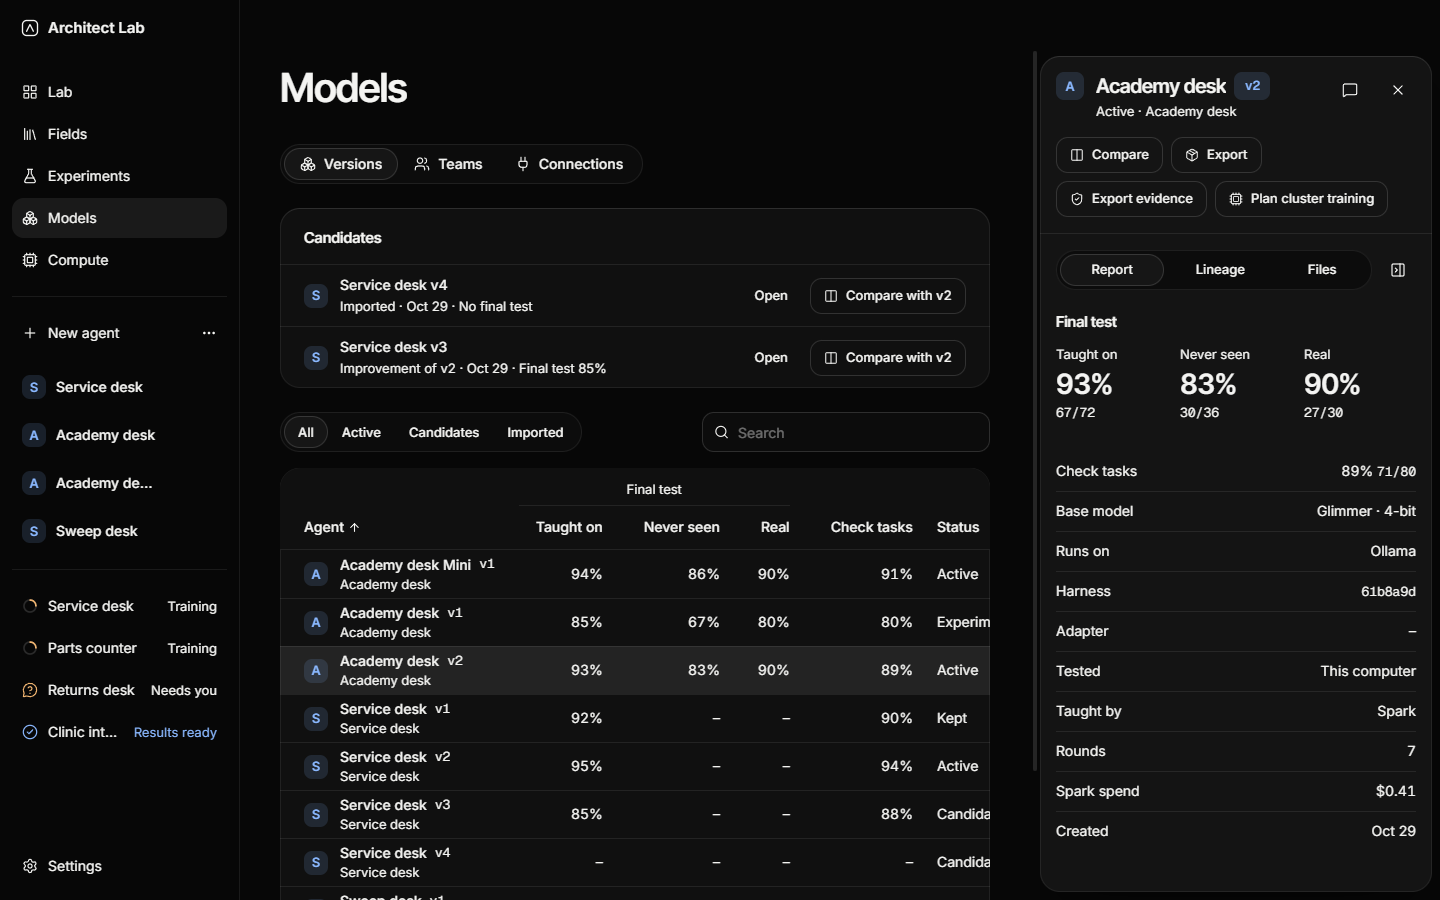
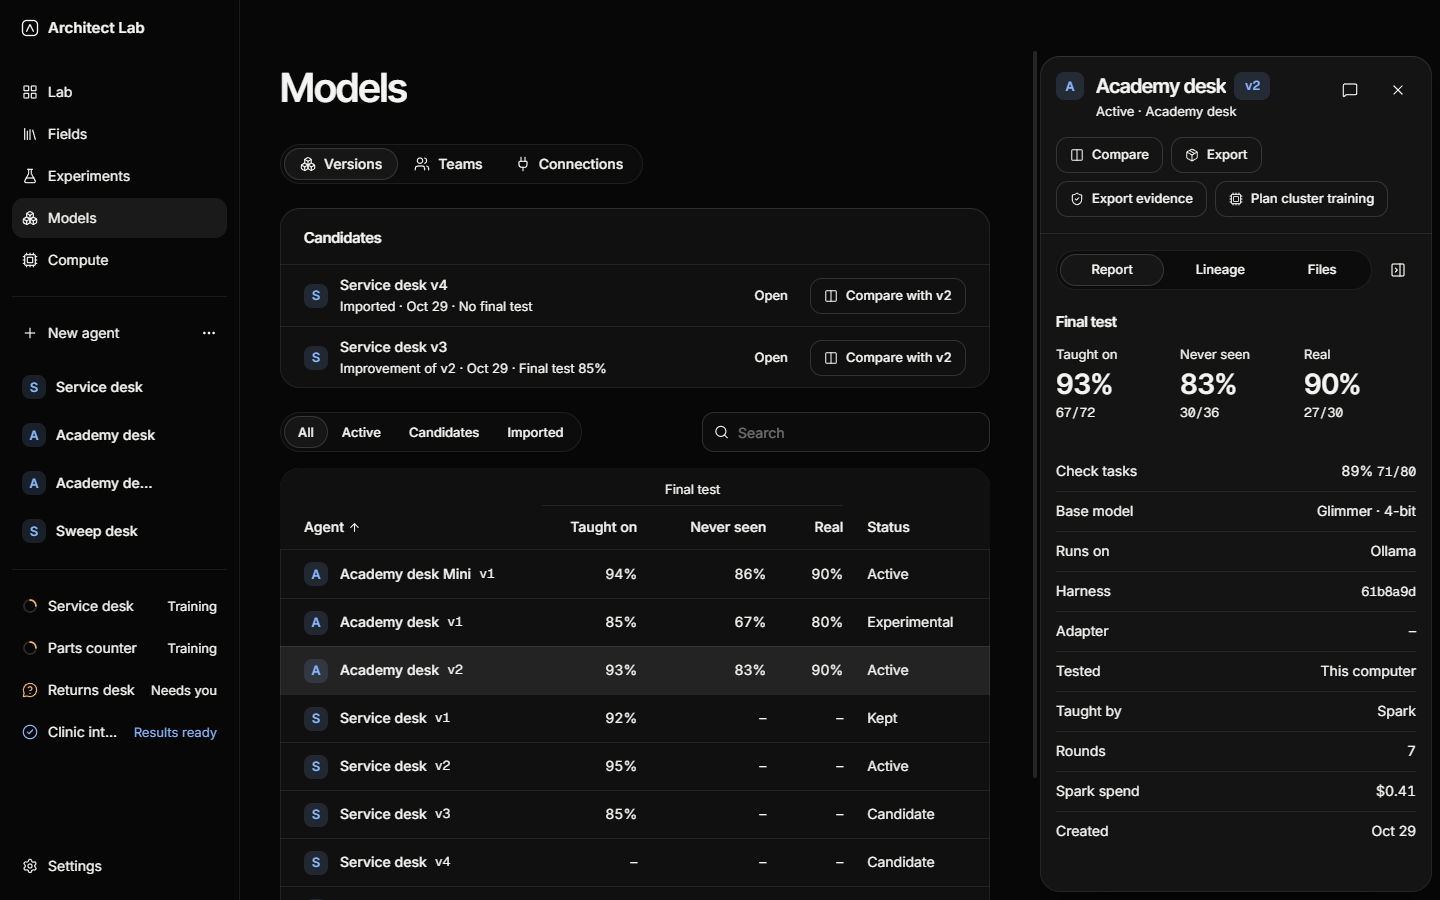
feat(desktop): keep the models table to one line a row, and its Status in view
The agent cell drops the subline that repeated its name, and the base
model is one line ("Glimmer · 4-bit") with its runtime on hover. Beside
the open panel the table leaves out Check tasks, which lead the panel, so
Status is never cut off.

diff --git a/apps/desktop/src/renderer/src/models/RegistryTable.tsx b/apps/desktop/src/renderer/src/models/RegistryTable.tsx
@@ -8,7 +8,6 @@ import { formatPercent } from '../lib/format';
 import {
   baseModelOf,
   CHECK_HINT,
-  fieldOf,
   runtimeName,
   scoresOf,
   shortHash,
@@ -54,16 +53,6 @@ const scoreColumn = (
     ),
 });
 
-/** A cell of two lines: the value, and a small line under it. */
-function TwoLines({ top, under }: { top: ReactNode; under: ReactNode }) {
-  return (
-    <span className="flex flex-col whitespace-nowrap leading-5">
-      {top}
-      <span className="text-small">{under}</span>
-    </span>
-  );
-}
-
 const NAME: DataColumn<ModelRow> = {
   key: 'name',
   header: 'Agent',
@@ -71,18 +60,13 @@ const NAME: DataColumn<ModelRow> = {
   cell: (row) => (
     <span className="flex items-center gap-3 whitespace-nowrap">
       <AgentAvatar name={row.agent.name} />
-      <TwoLines
-        top={
-          <span className="flex items-center gap-2">
-            {row.agent.name}
-            <span aria-hidden className="font-mono text-small font-normal">
-              v{row.version.version}
-            </span>
-            <span className="sr-only">version {row.version.version}</span>
-          </span>
-        }
-        under={<span className="font-normal">{fieldOf(row.version)}</span>}
-      />
+      <span className="flex items-center gap-2">
+        {row.agent.name}
+        <span aria-hidden className="font-mono text-small font-normal">
+          v{row.version.version}
+        </span>
+        <span className="sr-only">version {row.version.version}</span>
+      </span>
     </span>
   ),
 };
@@ -131,11 +115,16 @@ const COLUMNS: DataColumn<ModelRow>[] = [
     key: 'base',
     header: 'Base model',
     sortValue: (row) => baseModelOf(row.version),
+    // What it runs on shows on hover and in the panel.
     cell: (row) => (
-      <TwoLines
-        top={baseModelOf(row.version)}
-        under={runtimeName(row.version.manifest.model.runtime.compatible[0])}
-      />
+      <Tooltip
+        content={`Runs on ${runtimeName(row.version.manifest.model.runtime.compatible[0])}`}
+        side="top"
+      >
+        <span tabIndex={0} className="whitespace-nowrap">
+          {baseModelOf(row.version)}
+        </span>
+      </Tooltip>
     ),
   },
   {
@@ -176,8 +165,11 @@ function withCertificates(rows: readonly ModelRow[]): DataColumn<ModelRow>[] {
   return [...COLUMNS.slice(0, status), CERTIFIED, ...COLUMNS.slice(status)];
 }
 
-/** Beside an open panel, which shows the rest: the agent, its scores and its status. */
-const NARROW: DataColumn<ModelRow>[] = [NAME, ...SCORES, STATUS];
+/**
+ * Beside an open panel, which shows the rest: the agent, its final test and its status. The check
+ * tasks lead the panel, so the table leaves them out and its Status column stays in view.
+ */
+const NARROW: DataColumn<ModelRow>[] = [NAME, ...SCORES.slice(0, 3), STATUS];
 
 /** Every agent and version: what it runs on, how it was made, and how its final test went. */
 export function RegistryTable({

diff --git a/apps/desktop/e2e/models.spec.ts b/apps/desktop/e2e/models.spec.ts
@@ -66,8 +66,9 @@ test('lists every agent and version with its scores, and filters and searches th
   const academyDesk = row(/^Academy desk\s+version 2/);
   await expect(academyDesk).toContainText('Academy desk');
   await expect(academyDesk).toContainText('Glimmer · 4-bit');
-  // Its harness hash is behind a hover, not in the row.
+  // Its harness hash and its runtime are behind a hover, not in the row.
   await expect(academyDesk).not.toContainText('61b8a9d');
+  await expect(academyDesk).not.toContainText('Ollama');
   await expect(academyDesk).toContainText('93%');
   await expect(academyDesk).toContainText('83%');
   await expect(academyDesk).toContainText('90%');
@@ -84,6 +85,11 @@ test('lists every agent and version with its scores, and filters and searches th
   await academyDesk.getByText('Harness', { exact: true }).hover();
   await expect(page.getByRole('tooltip')).toContainText('harness 61b8a9d');
   await page.mouse.move(0, 0);
+  // Its runtime is behind the base model, which says so when it takes focus.
+  const base = academyDesk.locator('span[tabindex="0"]', { hasText: 'Glimmer · 4-bit' });
+  await base.focus();
+  await expect(page.getByRole('tooltip')).toContainText('Runs on Ollama');
+  await base.blur();
 
   await page.getByRole('radio', { name: 'Candidates' }).click();
   await expect(table().getByRole('row')).toHaveCount(4);
@@ -138,6 +144,12 @@ test("opens a model's panel with its report and lineage, and promotes a candidat
   await expect(panel()).toContainText('71/80');
   await expect(panel().getByRole('button', { name: 'Export', exact: true })).toBeVisible();
   await expect(panel().getByRole('button', { name: 'Export evidence' })).toBeVisible();
+  // The panel pushes the table, which keeps every column in view, Status last.
+  await expect(row(/^Academy desk\s+version 1/)).toContainText('Experimental');
+  const scroller = page.locator('div:has(> table[aria-label="Models"])');
+  expect(
+    await scroller.evaluate((element) => element.scrollWidth - element.clientWidth),
+  ).toBeLessThanOrEqual(0);
   await capture('model-panel-dark.png');
 
   await panel().getByRole('tab', { name: 'Lineage' }).click();
